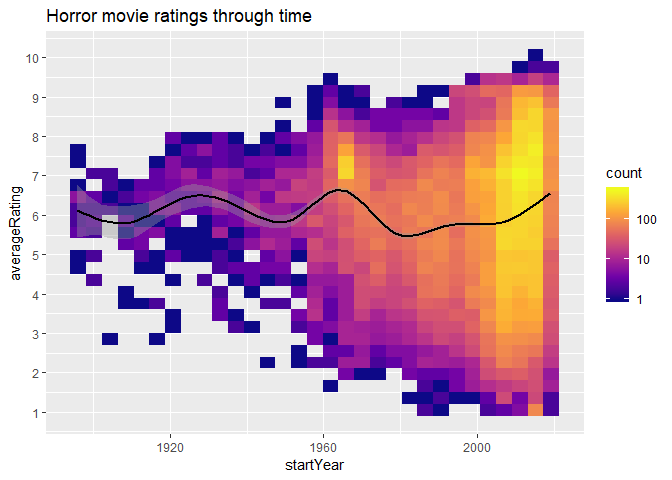
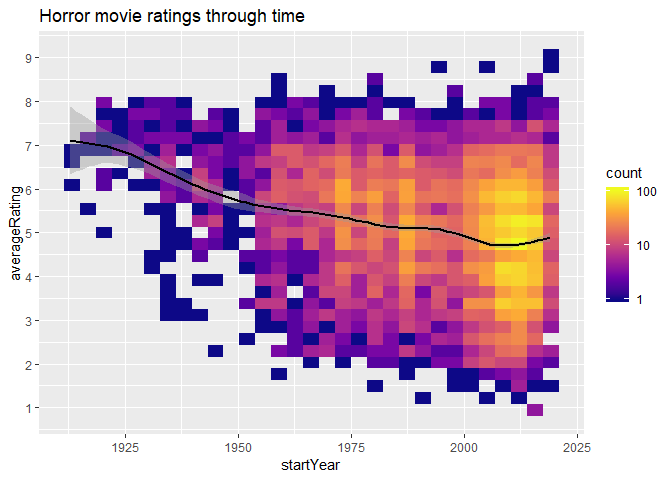
Spelling

diff --git a/IMBd_analysis.md b/IMBd_analysis.md
@@ -182,7 +182,7 @@ genre\!
 ``` r
 df_ratings_hor_filter = df_ratings_hor %>% filter(df_ratings_hor$titleType == "movie", df_ratings_hor$numVotes >= 150) 
 
-p4 <-     ggplot(df_ratings_hor, aes(x = startYear, y = averageRating))
+p4 <-     ggplot(df_ratings_hor_filter, aes(x = startYear, y = averageRating))
 
 p4 <-     p4 + geom_bin2d() +
           geom_smooth(color="black") +
